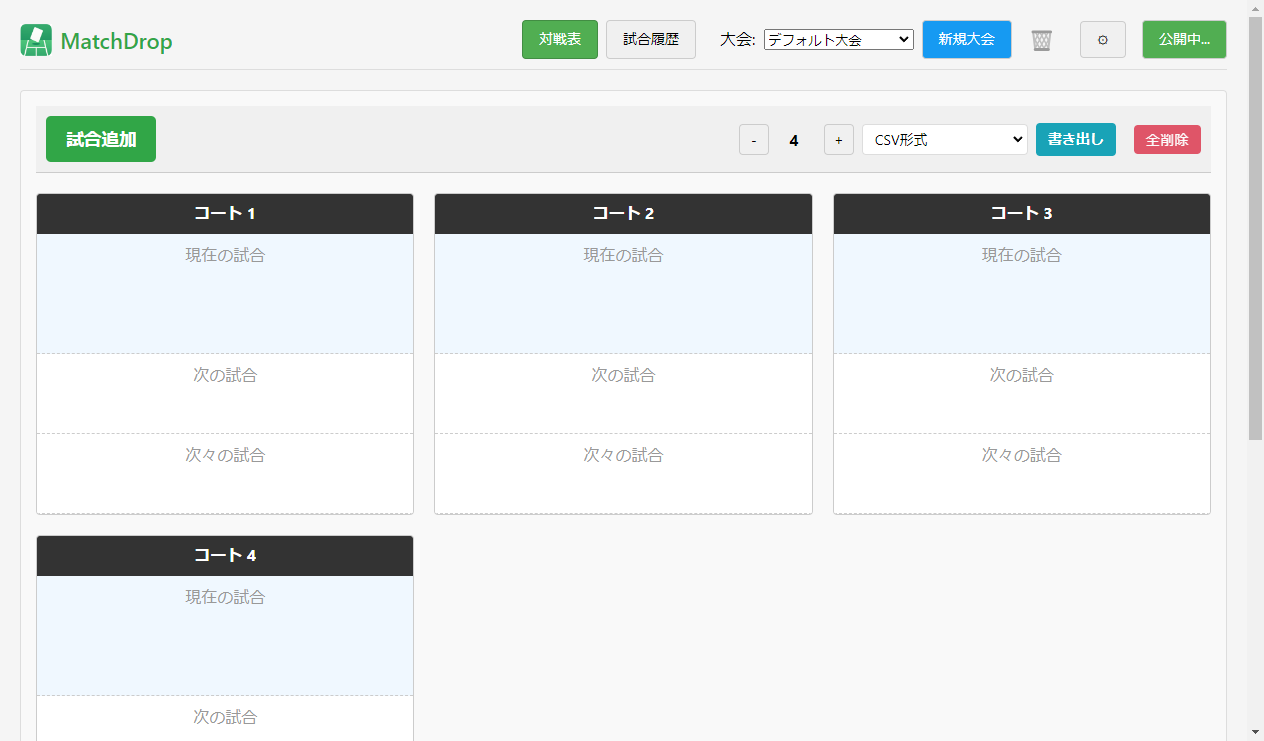
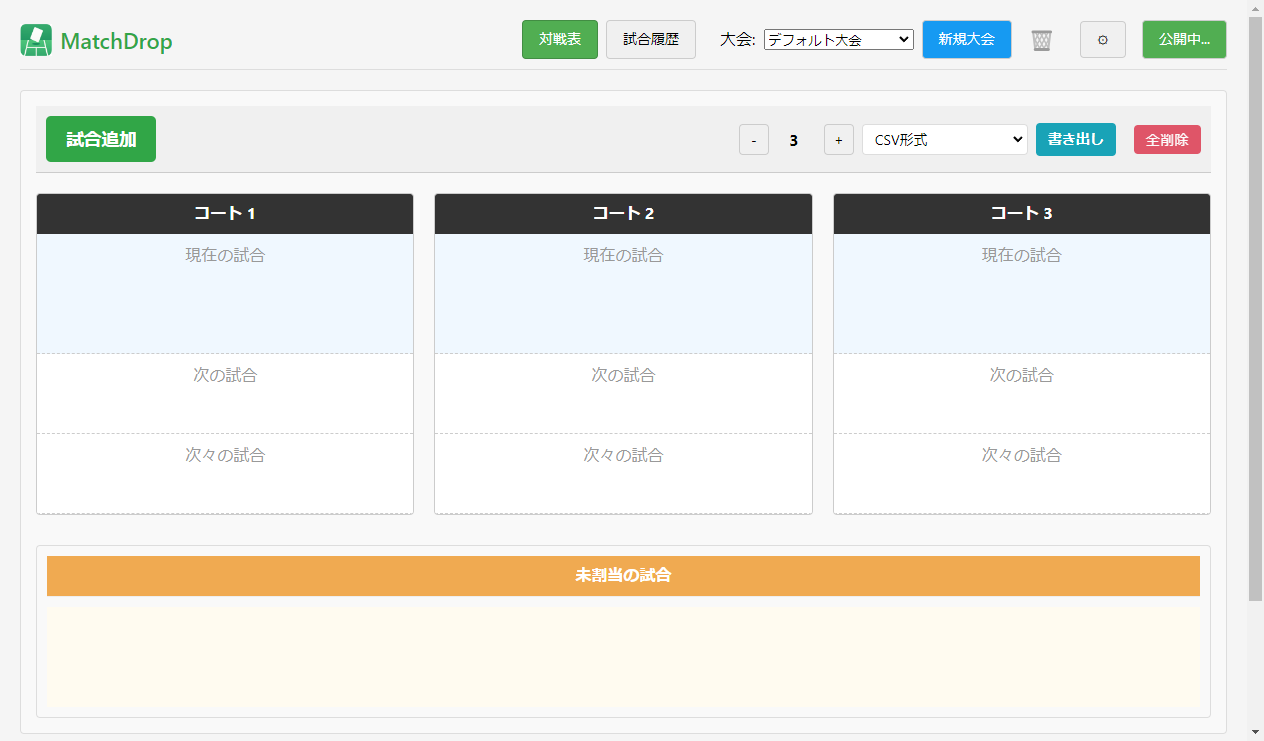
auto: deploy static site 2025-07-16T07:02:36.636Z

diff --git a/board-view.html b/board-view.html
@@ -5,7 +5,7 @@
           <button id="add-match-btn" class="add-match-btn-prominent" style="pointer-events: auto; cursor: pointer; opacity: 1;">試合追加</button>
           <div class="court-count-controls" style="margin-left:auto; margin-right:8px;">
             <button id="decrease-courts-btn">-</button>
-            <span id="court-count-display" class="court-count-display">4</span>
+            <span id="court-count-display" class="court-count-display">3</span>
             <button id="increase-courts-btn">+</button>
           </div>
           
@@ -20,7 +20,7 @@
           
           <button id="delete-all-matches-btn" class="delete-all-btn">全削除</button>
       </div>
-      <div id="court-grid" class="court-grid"><div class="court-slot" data-court-number="1"><div class="court-header"><span class="court-name-edit" data-court-number="1">コート 1</span></div><div class="court-rows"><div class="court-row current-row" data-row-type="current"><div class="row-placeholder">現在の試合</div><div class="card-container"></div></div><div class="court-row next-row" data-row-type="next"><div class="row-placeholder">次の試合</div><div class="card-container"></div></div><div class="court-row next2-row" data-row-type="next2"><div class="row-placeholder">次々の試合</div><div class="card-container"></div></div></div></div><div class="court-slot" data-court-number="2"><div class="court-header"><span class="court-name-edit" data-court-number="2">コート 2</span></div><div class="court-rows"><div class="court-row current-row" data-row-type="current"><div class="row-placeholder">現在の試合</div><div class="card-container"></div></div><div class="court-row next-row" data-row-type="next"><div class="row-placeholder">次の試合</div><div class="card-container"></div></div><div class="court-row next2-row" data-row-type="next2"><div class="row-placeholder">次々の試合</div><div class="card-container"></div></div></div></div><div class="court-slot" data-court-number="3"><div class="court-header"><span class="court-name-edit" data-court-number="3">コート 3</span></div><div class="court-rows"><div class="court-row current-row" data-row-type="current"><div class="row-placeholder">現在の試合</div><div class="card-container"></div></div><div class="court-row next-row" data-row-type="next"><div class="row-placeholder">次の試合</div><div class="card-container"></div></div><div class="court-row next2-row" data-row-type="next2"><div class="row-placeholder">次々の試合</div><div class="card-container"></div></div></div></div><div class="court-slot" data-court-number="4"><div class="court-header"><span class="court-name-edit" data-court-number="4">コート 4</span></div><div class="court-rows"><div class="court-row current-row" data-row-type="current"><div class="row-placeholder">現在の試合</div><div class="card-container"></div></div><div class="court-row next-row" data-row-type="next"><div class="row-placeholder">次の試合</div><div class="card-container"></div></div><div class="court-row next2-row" data-row-type="next2"><div class="row-placeholder">次々の試合</div><div class="card-container"></div></div></div></div></div>
+      <div id="court-grid" class="court-grid"><div class="court-slot" data-court-number="1"><div class="court-header"><span class="court-name-edit" data-court-number="1">コート 1</span></div><div class="court-rows"><div class="court-row current-row" data-row-type="current"><div class="row-placeholder">現在の試合</div><div class="card-container"></div></div><div class="court-row next-row" data-row-type="next"><div class="row-placeholder">次の試合</div><div class="card-container"></div></div><div class="court-row next2-row" data-row-type="next2"><div class="row-placeholder">次々の試合</div><div class="card-container"></div></div></div></div><div class="court-slot" data-court-number="2"><div class="court-header"><span class="court-name-edit" data-court-number="2">コート 2</span></div><div class="court-rows"><div class="court-row current-row" data-row-type="current"><div class="row-placeholder">現在の試合</div><div class="card-container"></div></div><div class="court-row next-row" data-row-type="next"><div class="row-placeholder">次の試合</div><div class="card-container"></div></div><div class="court-row next2-row" data-row-type="next2"><div class="row-placeholder">次々の試合</div><div class="card-container"></div></div></div></div><div class="court-slot" data-court-number="3"><div class="court-header"><span class="court-name-edit" data-court-number="3">コート 3</span></div><div class="court-rows"><div class="court-row current-row" data-row-type="current"><div class="row-placeholder">現在の試合</div><div class="card-container"></div></div><div class="court-row next-row" data-row-type="next"><div class="row-placeholder">次の試合</div><div class="card-container"></div></div><div class="court-row next2-row" data-row-type="next2"><div class="row-placeholder">次々の試合</div><div class="card-container"></div></div></div></div></div>
       
       <!-- 未割当のカード用の枠 -->
       <div class="unassigned-section">

diff --git a/dist-web/board-view.html b/dist-web/board-view.html
@@ -5,7 +5,7 @@
           <button id="add-match-btn" class="add-match-btn-prominent" style="pointer-events: auto; cursor: pointer; opacity: 1;">試合追加</button>
           <div class="court-count-controls" style="margin-left:auto; margin-right:8px;">
             <button id="decrease-courts-btn">-</button>
-            <span id="court-count-display" class="court-count-display">4</span>
+            <span id="court-count-display" class="court-count-display">3</span>
             <button id="increase-courts-btn">+</button>
           </div>
           
@@ -20,7 +20,7 @@
           
           <button id="delete-all-matches-btn" class="delete-all-btn">全削除</button>
       </div>
-      <div id="court-grid" class="court-grid"><div class="court-slot" data-court-number="1"><div class="court-header"><span class="court-name-edit" data-court-number="1">コート 1</span></div><div class="court-rows"><div class="court-row current-row" data-row-type="current"><div class="row-placeholder">現在の試合</div><div class="card-container"></div></div><div class="court-row next-row" data-row-type="next"><div class="row-placeholder">次の試合</div><div class="card-container"></div></div><div class="court-row next2-row" data-row-type="next2"><div class="row-placeholder">次々の試合</div><div class="card-container"></div></div></div></div><div class="court-slot" data-court-number="2"><div class="court-header"><span class="court-name-edit" data-court-number="2">コート 2</span></div><div class="court-rows"><div class="court-row current-row" data-row-type="current"><div class="row-placeholder">現在の試合</div><div class="card-container"></div></div><div class="court-row next-row" data-row-type="next"><div class="row-placeholder">次の試合</div><div class="card-container"></div></div><div class="court-row next2-row" data-row-type="next2"><div class="row-placeholder">次々の試合</div><div class="card-container"></div></div></div></div><div class="court-slot" data-court-number="3"><div class="court-header"><span class="court-name-edit" data-court-number="3">コート 3</span></div><div class="court-rows"><div class="court-row current-row" data-row-type="current"><div class="row-placeholder">現在の試合</div><div class="card-container"></div></div><div class="court-row next-row" data-row-type="next"><div class="row-placeholder">次の試合</div><div class="card-container"></div></div><div class="court-row next2-row" data-row-type="next2"><div class="row-placeholder">次々の試合</div><div class="card-container"></div></div></div></div><div class="court-slot" data-court-number="4"><div class="court-header"><span class="court-name-edit" data-court-number="4">コート 4</span></div><div class="court-rows"><div class="court-row current-row" data-row-type="current"><div class="row-placeholder">現在の試合</div><div class="card-container"></div></div><div class="court-row next-row" data-row-type="next"><div class="row-placeholder">次の試合</div><div class="card-container"></div></div><div class="court-row next2-row" data-row-type="next2"><div class="row-placeholder">次々の試合</div><div class="card-container"></div></div></div></div></div>
+      <div id="court-grid" class="court-grid"><div class="court-slot" data-court-number="1"><div class="court-header"><span class="court-name-edit" data-court-number="1">コート 1</span></div><div class="court-rows"><div class="court-row current-row" data-row-type="current"><div class="row-placeholder">現在の試合</div><div class="card-container"></div></div><div class="court-row next-row" data-row-type="next"><div class="row-placeholder">次の試合</div><div class="card-container"></div></div><div class="court-row next2-row" data-row-type="next2"><div class="row-placeholder">次々の試合</div><div class="card-container"></div></div></div></div><div class="court-slot" data-court-number="2"><div class="court-header"><span class="court-name-edit" data-court-number="2">コート 2</span></div><div class="court-rows"><div class="court-row current-row" data-row-type="current"><div class="row-placeholder">現在の試合</div><div class="card-container"></div></div><div class="court-row next-row" data-row-type="next"><div class="row-placeholder">次の試合</div><div class="card-container"></div></div><div class="court-row next2-row" data-row-type="next2"><div class="row-placeholder">次々の試合</div><div class="card-container"></div></div></div></div><div class="court-slot" data-court-number="3"><div class="court-header"><span class="court-name-edit" data-court-number="3">コート 3</span></div><div class="court-rows"><div class="court-row current-row" data-row-type="current"><div class="row-placeholder">現在の試合</div><div class="card-container"></div></div><div class="court-row next-row" data-row-type="next"><div class="row-placeholder">次の試合</div><div class="card-container"></div></div><div class="court-row next2-row" data-row-type="next2"><div class="row-placeholder">次々の試合</div><div class="card-container"></div></div></div></div></div>
       
       <!-- 未割当のカード用の枠 -->
       <div class="unassigned-section">
